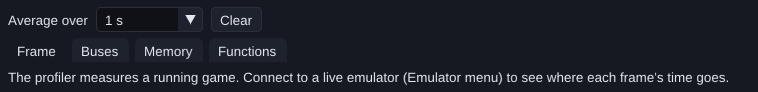
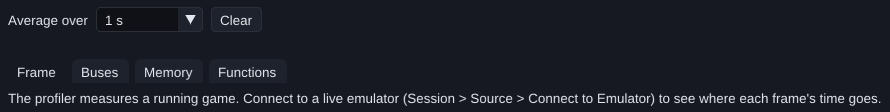
Profiler guide: scrubbing screenshots, current header and message
Recaptured header.png (1800 frames recorded, the reserved status line) and
state-disconnected.png (the Session > Source > Connect to Emulator text) on
5646580 with the V1 guest. Added scrub-status-mark.png (status line and red
mark at frame 4282) and scrub-no-data.png (a frame the Profiler no longer
holds) to the Scrubbing back section. The top-bar list gains the status line.

The rewind bullet now says what the real emulator showed: the scrubbed frame
itself is matched by timeline, but a span longer than Last frame that ends
just after a rewind still reaches into frames recorded before it.

diff --git a/SaturnExplorer/web/guides/profiler-reference.html b/SaturnExplorer/web/guides/profiler-reference.html
@@ -127,12 +127,13 @@ footer { font-size: 0.86rem; color: var(--muted); border-top: 1px solid var(--ru
 <section id="top">
   <h2>Top bar and tabs</h2>
   <figure class="shot narrow">
-    <a class="full" href="img/profiler/header.png" title="Open full size"><img src="img/profiler/header.png" width="748" height="78" alt="The Profiler's top bar: an Average over list set to 1 s, a Clear button, the text 600 frames recorded, and the four tabs Frame, Buses, Memory and Functions. Yellow numbered boxes mark each part."></a>
+    <a class="full" href="img/profiler/header.png" title="Open full size"><img src="img/profiler/header.png" width="746" height="98" alt="The Profiler's top bar: an Average over list set to 1 s, a Clear button, the text 1800 frames recorded, an empty status line, and the four tabs Frame, Buses, Memory and Functions. Yellow numbered boxes mark each part."></a>
   </figure>
   <ol class="callouts">
     <li><b>Average over.</b> The time span every figure on the Frame, Buses and Functions tabs is averaged over: <span class="ui">Last frame</span>, <span class="ui">0.5 s</span> (30 frames), <span class="ui">1 s</span> (60), <span class="ui">5 s</span> (300) or <span class="ui">10 s</span> (600). Short spans react quickly; long ones smooth out spikes. The History strips always show the newest 600 frames, whatever this is set to.</li>
     <li><b>Clear.</b> Forgets every recorded frame and the Memory tab's last sample. Use it to start a measurement fresh, for example just before the part of the game you care about.</li>
-    <li><b>N frames recorded.</b> How many frames the panel holds, up to 3600. A span longer than this averages only the frames that exist. (The screenshot is from before the limit was raised.)</li>
+    <li><b>N frames recorded.</b> How many frames the panel holds, up to 3600. A span longer than this averages only the frames that exist.</li>
+    <li><b>Status line.</b> One line kept free under the top bar. It is empty while the game runs live, and shows the scrubbed frame or a "no data" message when you scrub back (see <a href="#scrub">Scrubbing back</a>). It always takes the same space, so nothing below it moves.</li>
     <li><b>Tabs.</b> Frame, Buses, Memory and Functions, described below.</li>
   </ol>
   <figure class="shot narrow">
@@ -310,9 +311,17 @@ footer { font-size: 0.86rem; color: var(--muted); border-top: 1px solid var(--ru
     <li><b>Status line.</b> A line under the top bar reads <code>Showing frame N (scrubbed), newest is M</code>. It is empty while live, and when you are scrubbed to the newest frame.</li>
     <li><b>History strips.</b> A red line with a small triangle marks the scrubbed frame. If that frame is older than the strip's 600 frames, the strip shifts back so the mark stays in view, and its heading says <span class="ui">the red mark is the frame shown</span>.</li>
     <li><b>No data.</b> If the panel has no record of that frame, the tab says <code>No Profiling Data</code>, the status line gives the frame and the reason (<code>No profiler data for frame N (…)</code>), and no figures are drawn. Frames far back in the history can be like this; it is expected. This happens when the Profiler was not capturing then (for example after <span class="ui">Clear</span>), when the frame is older than the 3600 kept, or when the emulator does not report which timeline a frame belongs to.</li>
-    <li><b>After a rewind.</b> Frames are matched by timeline and frame number together, so a frame replayed after a rewind is never shown with the figures of the frame it replaced.</li>
+    <li><b>After a rewind.</b> Frames are matched by timeline and frame number together, so a frame replayed after a rewind (<span class="ui">Play From Here</span>) is never shown with the figures of the frame it replaced. A span longer than <span class="ui">Last frame</span> that ends shortly after the rewind point can still reach back into frames recorded before the rewind, and the History strips still show those older frames to the left. For a frame just after a rewind, read it with <span class="ui">Last frame</span>.</li>
     <li><b>Memory tab.</b> Unchanged: it already samples the memory of whichever frame is displayed.</li>
   </ul>
+  <figure class="shot">
+    <a class="full" href="img/profiler/scrub-status-mark.png" title="Open full size"><img src="img/profiler/scrub-status-mark.png" width="1014" height="524" alt="The Frame tab scrubbed back: the status line reads Showing frame 4282 (scrubbed), newest is 4317, and a red vertical mark with a small triangle crosses all three History strips just after a busy plateau ends."></a>
+    <figcaption>V1 scrubbed to frame 4282, the third frame of its function phase, with <span class="ui">Average over</span> at <span class="ui">Last frame</span>. The status line names the frame (1) and the red mark shows where it sits in the History strips (2), just after the busy-loop phase ended.</figcaption>
+  </figure>
+  <figure class="shot">
+    <a class="full" href="img/profiler/scrub-no-data.png" title="Open full size"><img src="img/profiler/scrub-no-data.png" width="720" height="184" alt="The Functions tab scrubbed to a frame with no record: the status line, in orange, and the tab both read No profiler data for frame 3912 (the Profiler was not capturing then, or the frame is older than the last 1800 kept)."></a>
+    <figcaption>Scrubbed to a frame the panel no longer holds: the status line (1) and the tab (2) say so, and no figures are drawn. The frame history can reach further back than the Profiler's 1800 records, because the history does not always keep every frame, so its oldest frames often show this.</figcaption>
+  </figure>
 </section>
 
 <section id="states">
@@ -340,7 +349,7 @@ footer { font-size: 0.86rem; color: var(--muted); border-top: 1px solid var(--ru
   </table>
   </div>
   <figure class="shot narrow">
-    <a class="full" href="img/profiler/state-disconnected.png" title="Open full size"><img src="img/profiler/state-disconnected.png" width="758" height="92" alt="The Frame tab with no emulator connected, reading The profiler measures a running game. Connect to a live emulator (Emulator menu) to see where each frame's time goes."></a>
+    <a class="full" href="img/profiler/state-disconnected.png" title="Open full size"><img src="img/profiler/state-disconnected.png" width="890" height="112" alt="The Frame tab with no emulator connected, reading The profiler measures a running game. Connect to a live emulator (Session &gt; Source &gt; Connect to Emulator) to see where each frame's time goes."></a>
     <figcaption>Not connected.</figcaption>
   </figure>
   <figure class="shot narrow">
